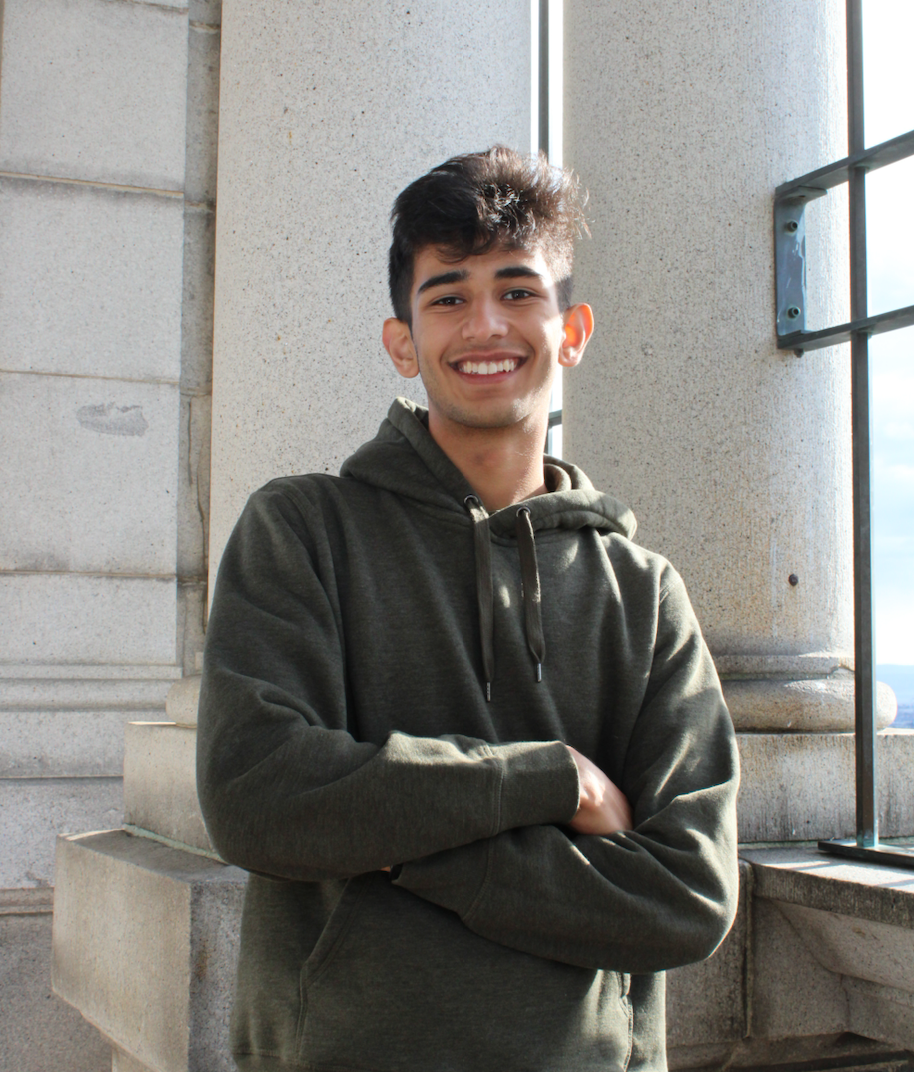
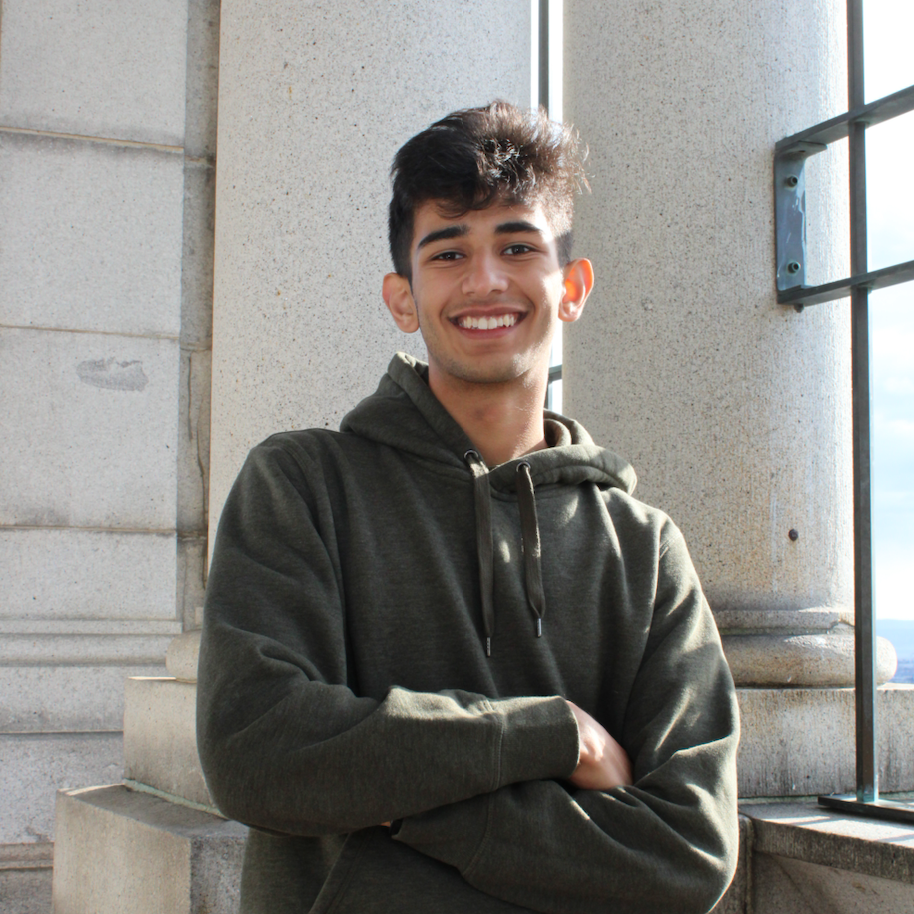
update sizing on campanile img

diff --git a/src/components/Profile/Profile.js b/src/components/Profile/Profile.js
@@ -15,7 +15,7 @@ const ProfileWrapper = styled.section`
 `;
 
 const ProfilePic = styled.img`
-  width: 300px;
+  width: 380px;
   height: 380px;
   
   box-shadow: 0 0 0 3px white, 0 3px 8px 3px #ccc;
